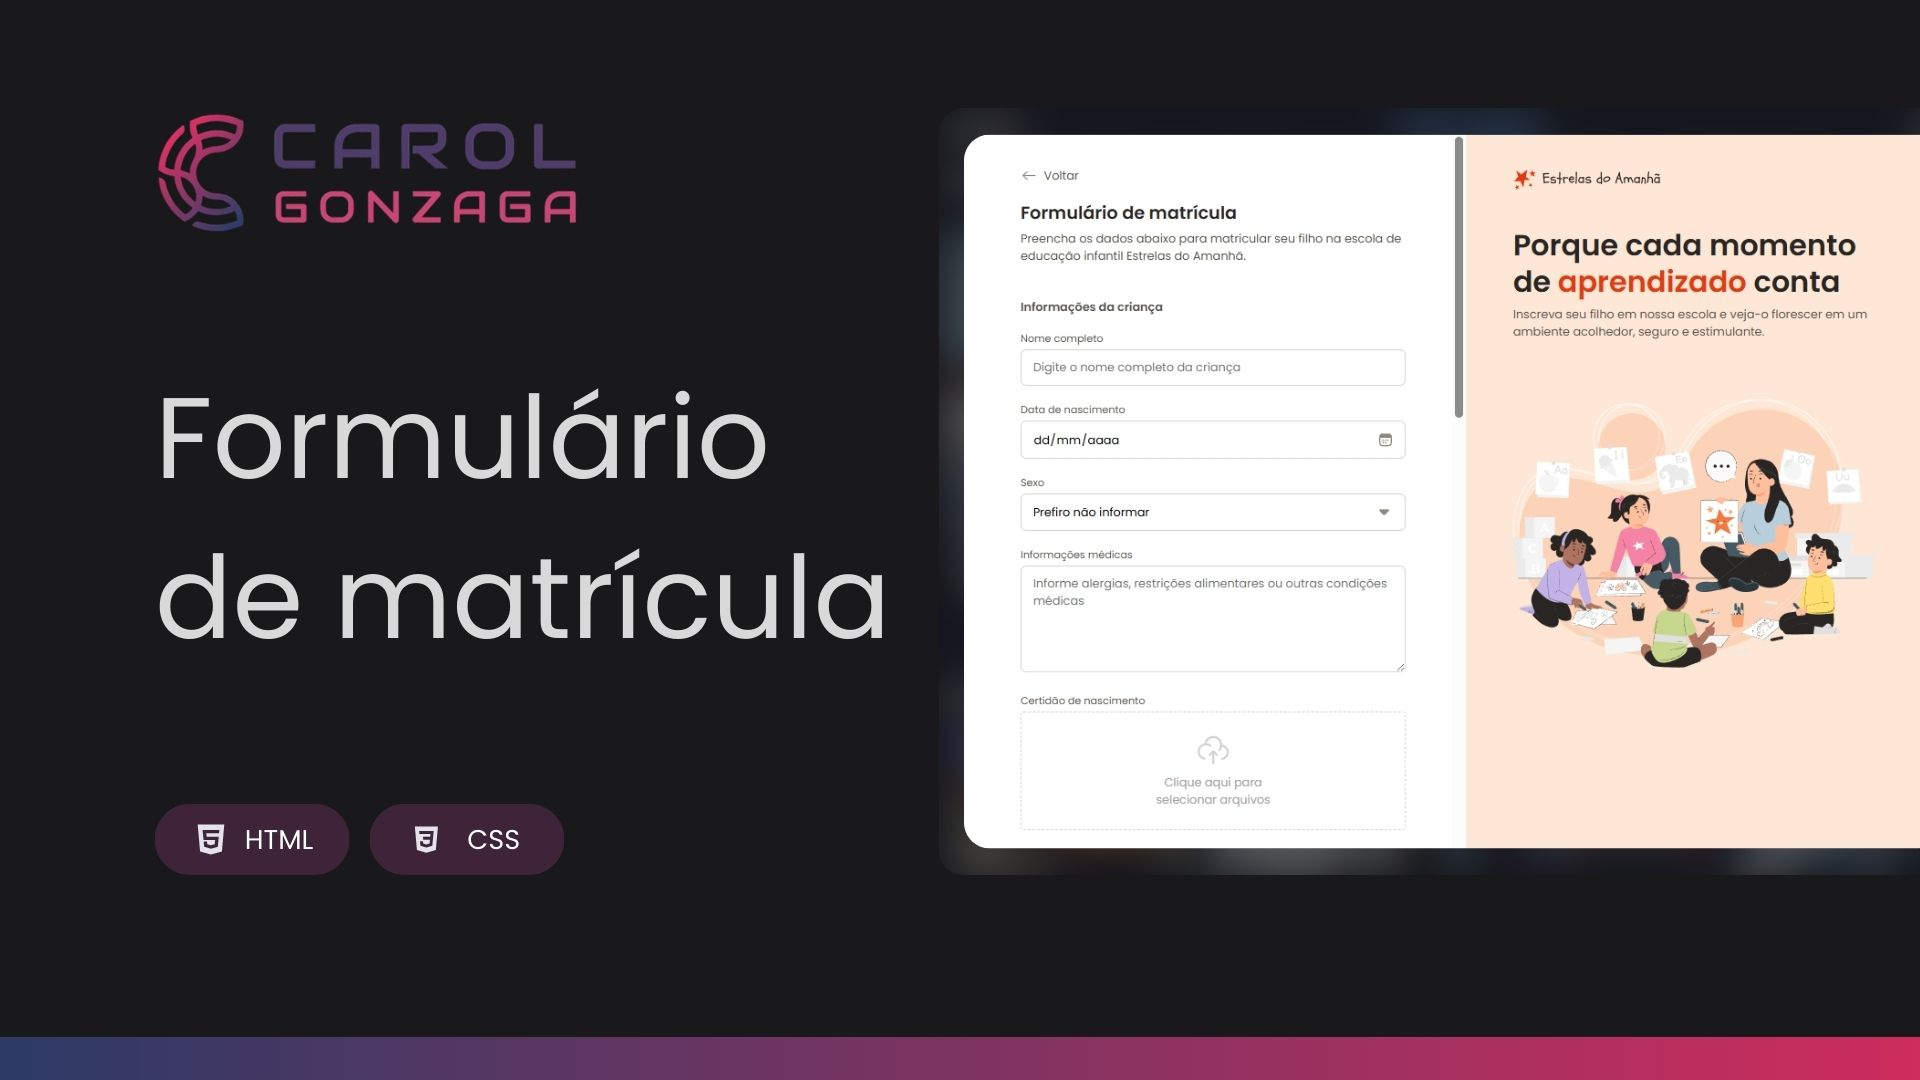
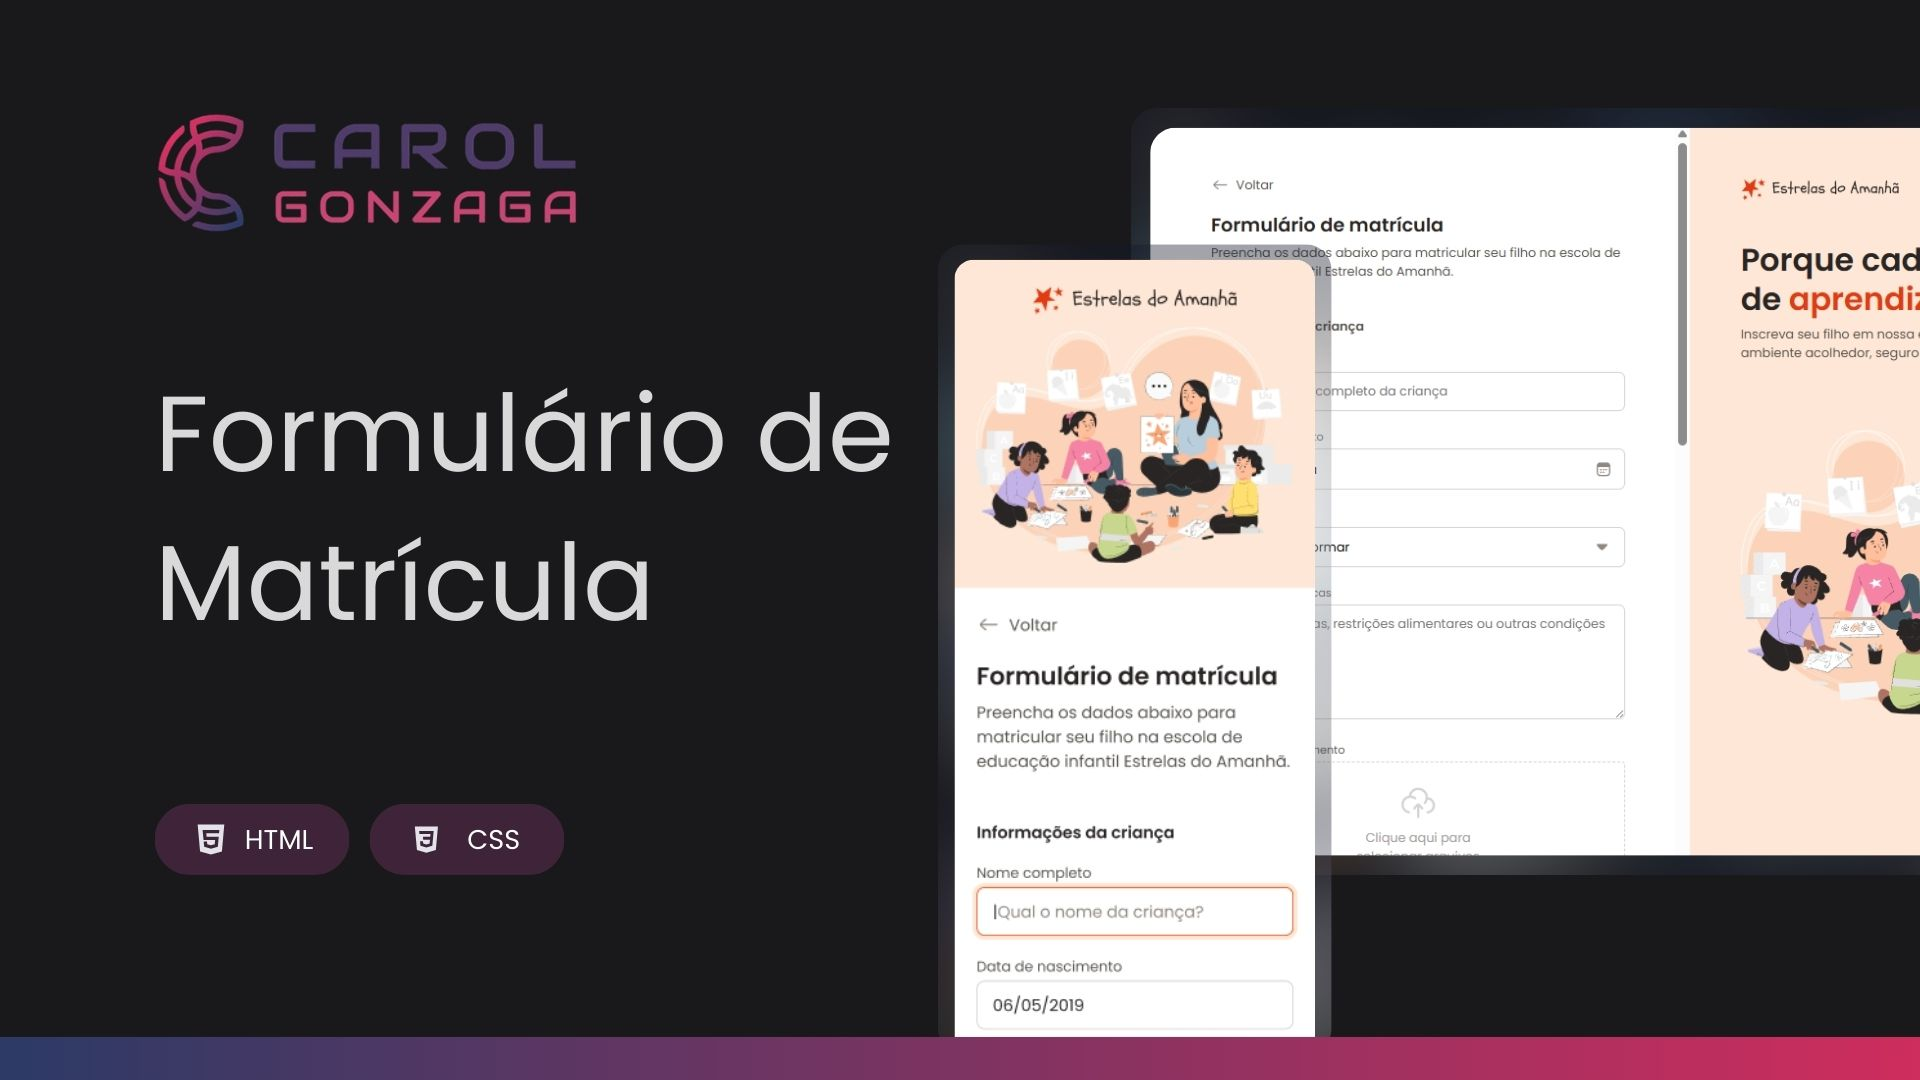
responsividade add

Changed region(s): [[0.0625, 0.0917, 1.0, 0.9778]]

diff --git a/index.html b/index.html
@@ -208,6 +208,13 @@
 
                                 <div class="radio-inner">
                                     <div class="radio-image"></div>
+                                    <input type="radio" name="sport" value="theater" id="theater">
+                                    <img src="assets/icons/mask-theater.svg" alt="Ícone de Teatro">
+                                    <label for="theater">Teatro</label>
+                                </div>
+
+                                <div class="radio-inner">
+                                    <div class="radio-image"></div>
                                     <input type="radio" name="sport" value="none" id="none">
                                     <img src="assets/icons/cancel.svg" alt="Ícone de x">
                                     <label for="none">Nenhum</label>
@@ -244,12 +251,12 @@
                 <header>
                     <img src="assets/images/logo.svg" alt="Logo da escola">
                     <div>
-                        <h2>
+                        <h2 class="desktop-only">
                             Porque cada momento de
                             <span>aprendizado</span>
                             conta
                         </h2>
-                        <p>
+                        <p class="desktop-only">
                             Inscreva seu filho em nossa escola e veja-o florescer em um ambiente acolhedor, seguro e
                             estimulante.
                         </p>

diff --git a/assets/css/layout.css b/assets/css/layout.css
@@ -45,7 +45,7 @@ aside {
             }
 
 
-            & div > h2 {
+            & div>h2 {
                 font: 600 2.5rem/1.25 var(--font-family);
                 margin-bottom: .5rem;
 
@@ -55,9 +55,46 @@ aside {
             }
         }
 
-        & > img {
+        &>img {
             margin-top: 5rem;
         }
     }
 
+}
+
+@media (width <=500px) {
+    #app {
+        display: flex;
+        flex-direction: column-reverse;
+        height: 100%;
+    }
+
+    .desktop-only {
+        display: none;
+    }
+
+    main {
+        padding: 24px;
+    }
+
+    aside {
+        padding: 24px;
+
+        & .aside-container {
+            max-width: 100%;
+
+            & header {
+                gap: 12px;
+
+                & img {
+                    width: 203px;
+                    margin-inline: auto;
+                }
+            }
+
+            &>img {
+                margin-top: 0;
+            }
+        }
+    }
 }

diff --git a/assets/css/fields/buttons.css b/assets/css/fields/buttons.css
@@ -26,3 +26,13 @@ button {
         }
     }
 }
+
+@media (width <=500px) {
+    button {
+        text-align: center;
+
+        &.btn-secondary {
+            margin: 0;
+        }
+    }
+}

diff --git a/assets/css/global.css b/assets/css/global.css
@@ -52,3 +52,14 @@ img {
 .flex-2 {
     flex: 2;
 }
+
+
+@media (width <= 500px) {
+    body {
+        overflow: auto;
+    }
+
+    .flex {
+        flex-direction: column;
+    }
+}

diff --git a/assets/css/fields/droparea.css b/assets/css/fields/droparea.css
@@ -1,5 +1,5 @@
 .drop-zone {
-    border: 1px dashed var(--stroke-default);
+    border: 2px dashed var(--stroke-default);
     border-radius: .25rem;
 
     display: grid;

diff --git a/assets/css/forms.css b/assets/css/forms.css
@@ -24,3 +24,9 @@ fieldset + fieldset {
     display: flex;
     gap: 1rem;
 }
+
+@media (width <=500px) {
+    .actions-wrapper {
+        flex-direction: column;
+    }
+}
